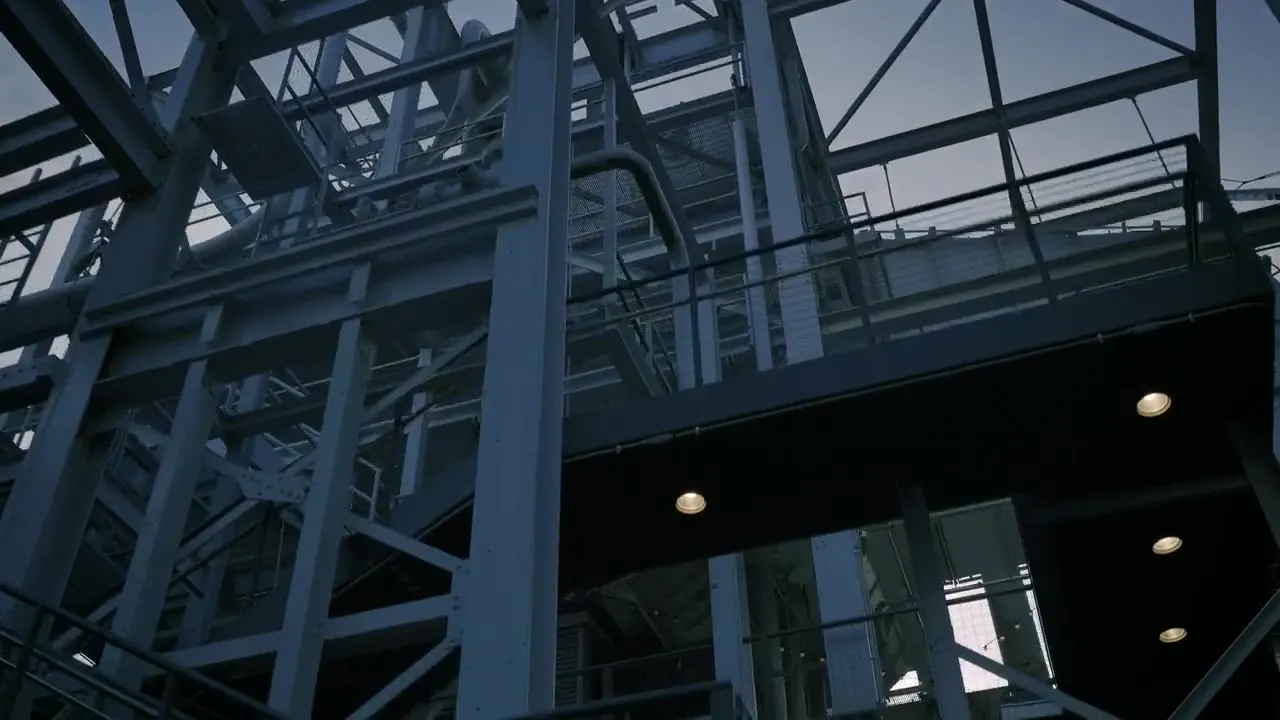
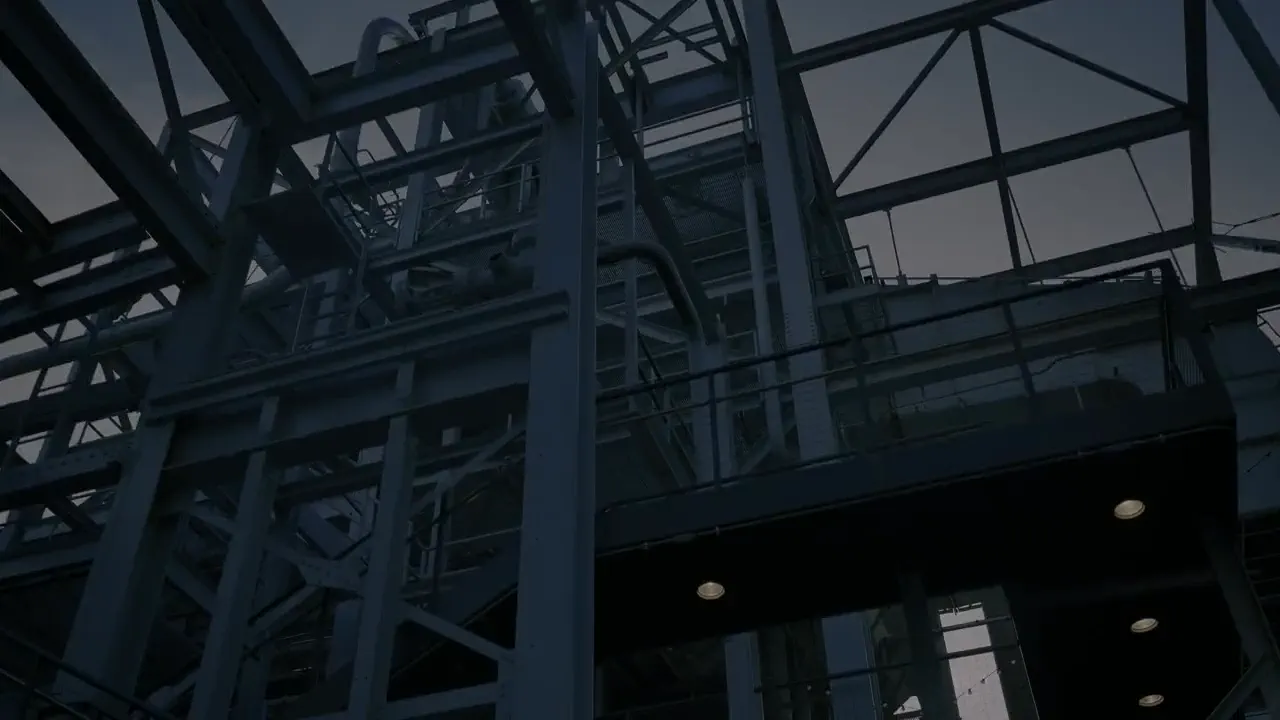
perf: align hero posters with opening video frames

diff --git a/app/data/directions.ts b/app/data/directions.ts
@@ -19,6 +19,7 @@ export type Direction = {
   cardTitle: string;
   cardText: string;
   image: string;
+  heroPoster: string;
   imageAlt: string;
   cardClassName: string;
   seoTitle: string;
@@ -38,6 +39,7 @@ export const directions: readonly Direction[] = [
     cardTitle: 'Ангари та склади',
     cardText: 'Швидкомонтовані споруди для виробництва, логістики, агросектору та зберігання.',
     image: '/media/concepts/direction-hangars-v2.jpg',
+    heroPoster: '/media/directions/hangars-poster.webp',
     imageAlt: 'Каркас промислового ангара з повторюваними сталевими рамами',
     cardClassName: 'wide',
     seoTitle: brandedTitle('Ангари та склади у Дніпрі'),
@@ -55,6 +57,7 @@ export const directions: readonly Direction[] = [
     cardTitle: 'Зерносховища',
     cardText: 'Основа, металевий каркас, огороджувальні конструкції та координація монтажу.',
     image: '/media/concepts/direction-grain-v2.jpg',
+    heroPoster: '/media/directions/grain-poster.webp',
     imageAlt: 'Конструкція зерносховища з оцинкованим силосом і сталевими опорами',
     cardClassName: 'tall',
     seoTitle: brandedTitle('Зерносховища у Дніпрі'),
@@ -72,6 +75,7 @@ export const directions: readonly Direction[] = [
     cardTitle: 'Металоконструкції',
     cardText: 'Виготовлення та монтаж каркасів, балок, ферм і складних металевих вузлів.',
     image: '/media/concepts/direction-steel-v2.jpg',
+    heroPoster: '/media/directions/steel-poster.webp',
     imageAlt: 'Болтовий вузол несучої металоконструкції з фасонними пластинами',
     cardClassName: 'compact',
     seoTitle: brandedTitle('Металоконструкції у Дніпрі'),
@@ -89,6 +93,7 @@ export const directions: readonly Direction[] = [
     cardTitle: 'Бетонні роботи',
     cardText: 'Фундаменти, основи, промислові підлоги та монолітні елементи відповідно до завдання об’єкта.',
     image: '/media/concepts/direction-concrete-v2.jpg',
+    heroPoster: '/media/directions/concrete-poster.webp',
     imageAlt: 'Армування промислового фундаменту з анкерною групою',
     cardClassName: 'concrete',
     seoTitle: brandedTitle('Бетонні роботи у Дніпрі'),
@@ -106,6 +111,7 @@ export const directions: readonly Direction[] = [
     cardTitle: 'Покрівельні роботи',
     cardText: 'Монтаж, ремонт і герметизація покрівель промислових, складських та аграрних споруд.',
     image: '/media/concepts/direction-roofing-v2.jpg',
+    heroPoster: '/media/directions/roofing-poster.webp',
     imageAlt: 'Монтаж вузла металевої покрівлі промислової споруди',
     cardClassName: 'roof',
     seoTitle: brandedTitle('Покрівельні роботи у Дніпрі'),

diff --git a/app/napryamky/page.tsx b/app/napryamky/page.tsx
@@ -29,7 +29,7 @@ export default function DirectionsPage() {
       <section className="subhero subhero-media directions-subhero">
         <DirectionHeroVideo
           sources={['/media/directions/directions-montage.mp4']}
-          poster="/media/hero-steel-frame.webp"
+          poster="/media/directions/directions-montage-poster.webp"
           playbackRate={0.85}
         />
         <div className="subhero-overlay" />

diff --git a/app/pro-nas/page.tsx b/app/pro-nas/page.tsx
@@ -28,7 +28,7 @@ export default function AboutPage() {
               '/media/about/welding.m4v',
               '/media/about/structure.m4v',
             ]}
-            poster="/media/about-industrial-concept.webp"
+            poster="/media/about/architect-poster.webp"
             clipDurationMs={3800}
             playbackRate={0.85}
           />

diff --git a/app/components/DirectionDetail.tsx b/app/components/DirectionDetail.tsx
@@ -193,7 +193,7 @@ export function DirectionPage({ config }: { config: DirectionPageConfig }) {
         title={config.hero.title}
         accent={config.hero.accent}
         intro={config.hero.intro}
-        poster={direction.image}
+        poster={direction.heroPoster}
         video={config.hero.video}
       />
 
